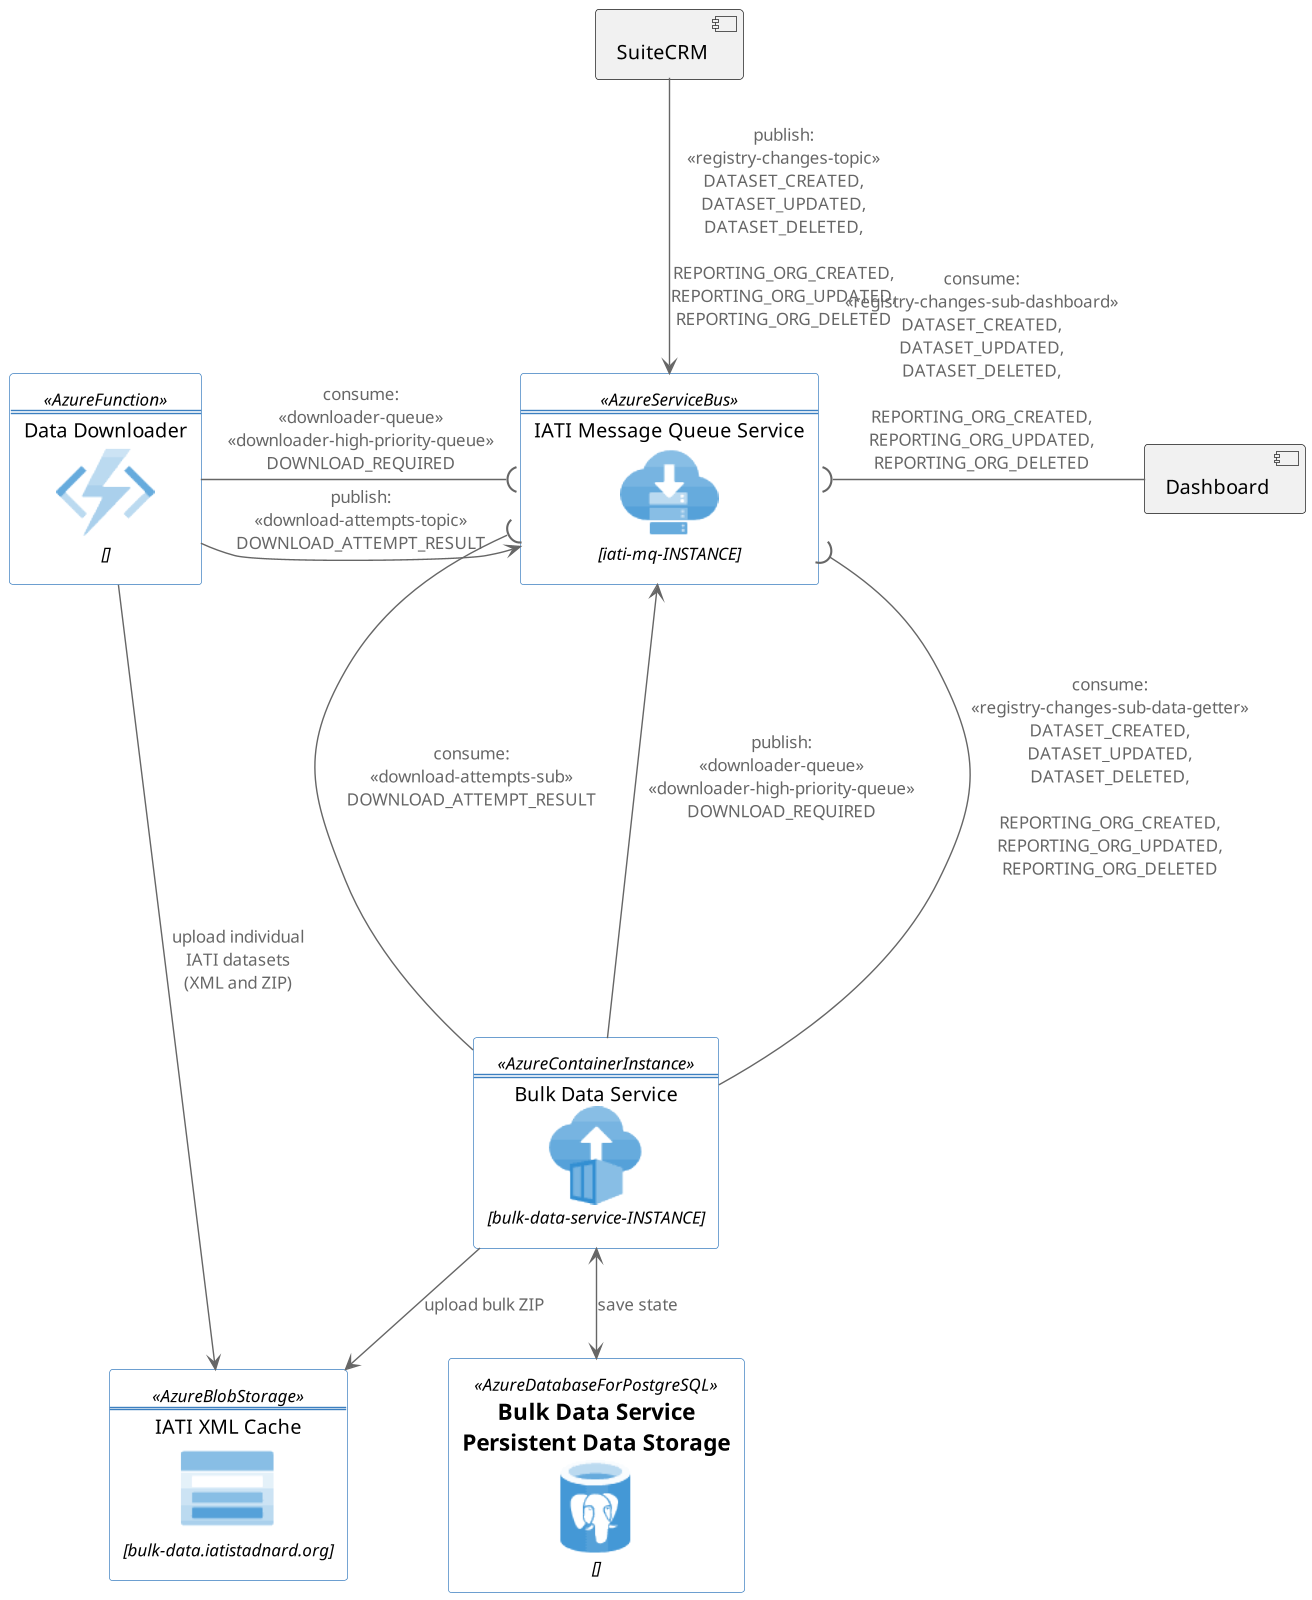
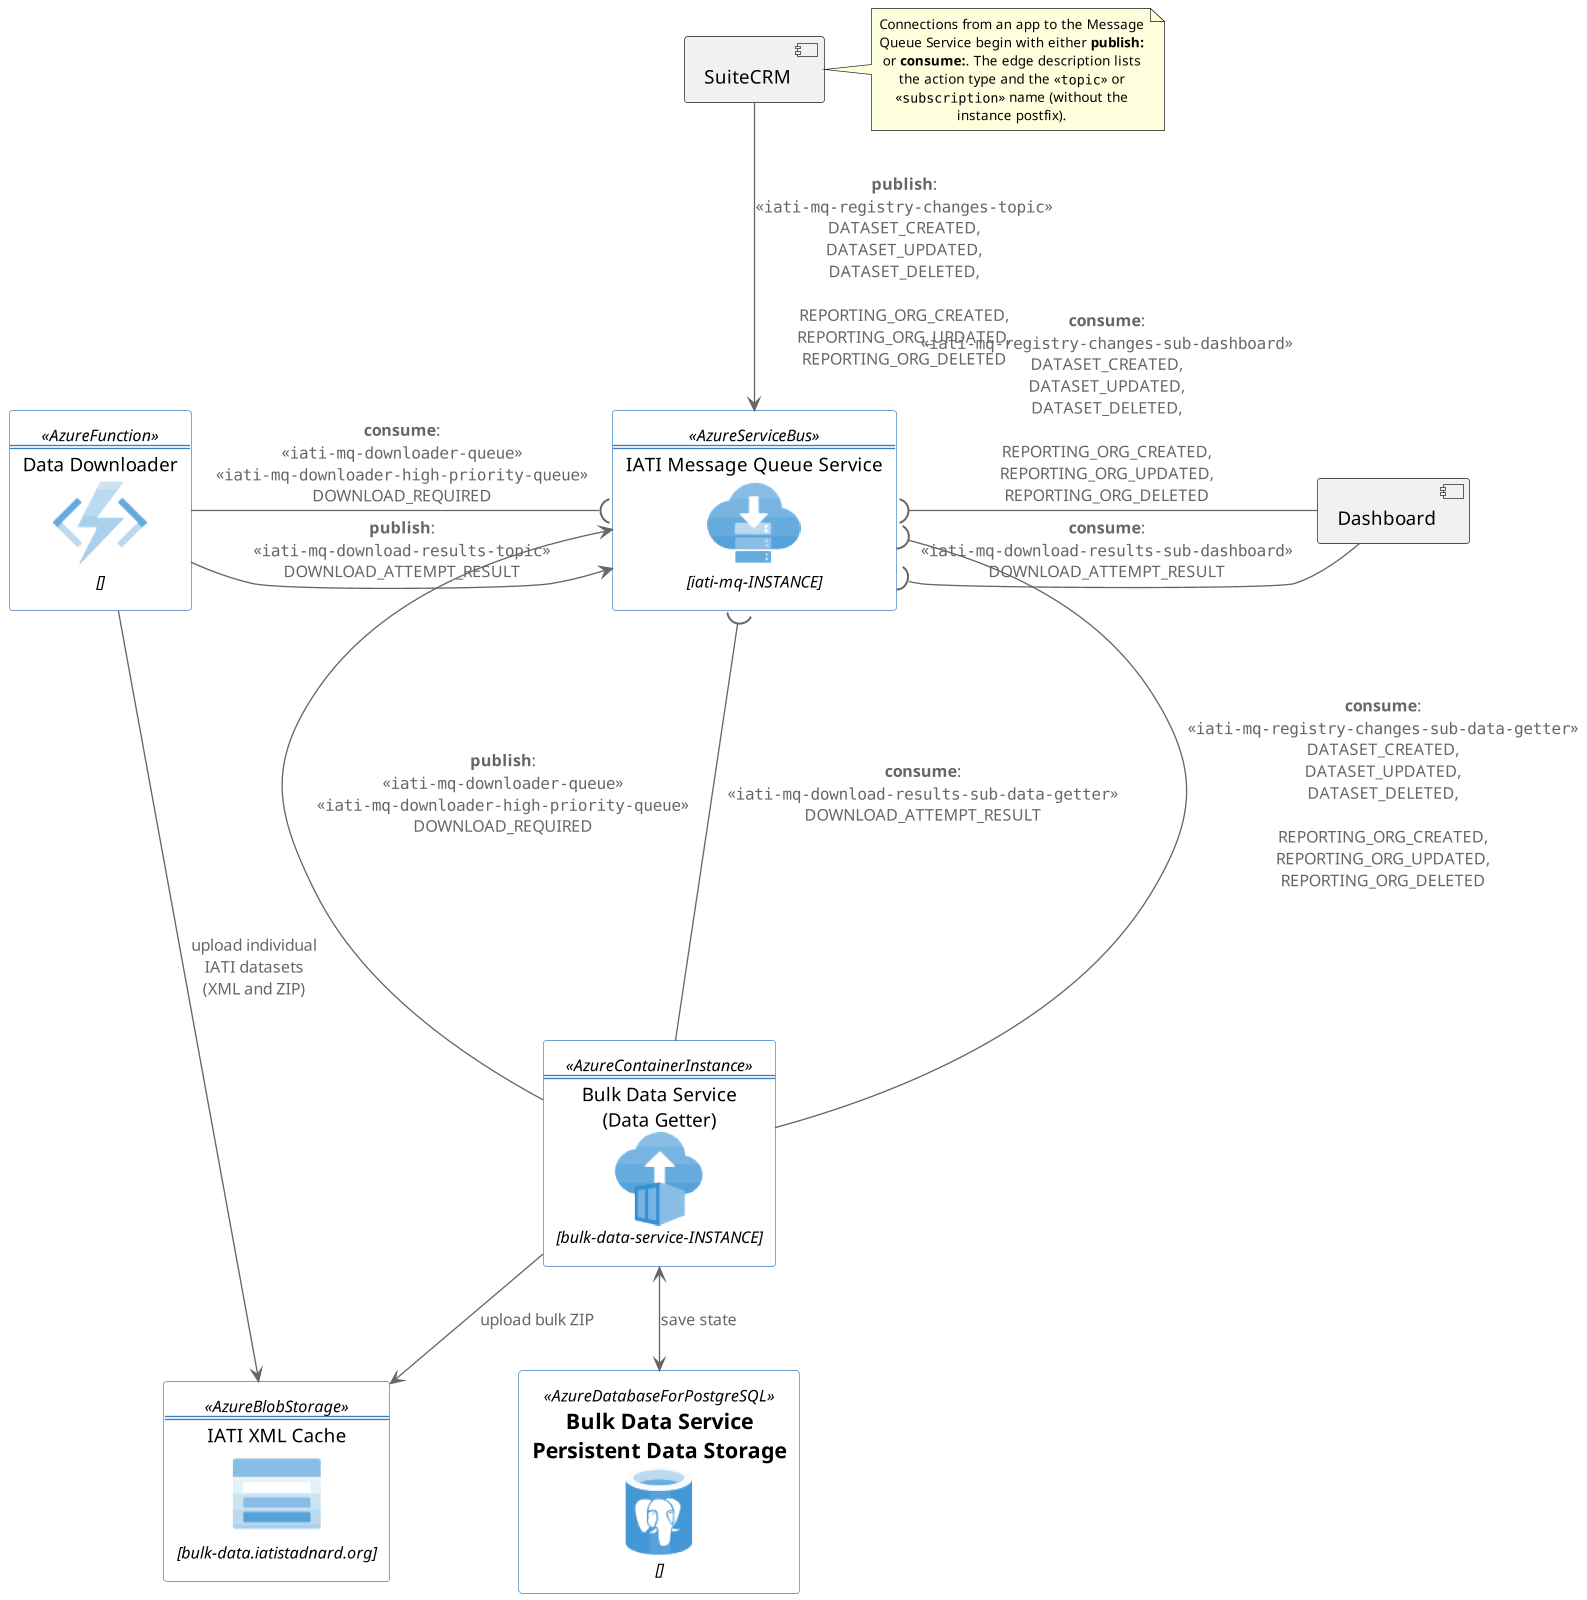
docs: updated overview diagram, expanded README

diff --git a/README.md b/README.md
@@ -6,22 +6,52 @@
 | ---------------- | --------------------------------- |
 | Description      | The specification for the internal message queue service that is used by several IATI products to communicate with each other |
 | Website          | n/a  |
-| Related          | |
-| Documentation    | Links to differnt parts of docs are below |
+| Related          | [IATI Registry SuiteCRM Extension](https://github.com/IATI/iati-registry-suitecrm-extension)|
+| Documentation    | This README and the docs it links to below |
 | Technical Issues | See https://github.com/IATI/iati-message-queue-service/issues |
 | Support          | https://iatistandard.org/en/guidance/get-support/  |
 
-## Specification
+## Overview diagram
 
-Proposed specification for IATI message queue/service bus for communication
-between CRM/Registry, Dashboard, Data Getter (spec in AsyncAPI format):
+The IATI Message Queue Service is an instance of the Azure Service Bus messaging
+platform. It is provisioned and configured using the IATI OpenTofu setup.
 
-* Specs for SuiteCRM (producer): [YAML](./specification/iati-mq-suitecrm.yaml), [Rendered HTML](https://htmlpreview.github.io/?https://github.com/IATI/iati-message-queue-service/blob/develop/docs/specification-mq-suitecrm/index.html) (external
-  preview
-  tool).
-* Specs for Dashboard and other consumers: [YAML](./specification/iati-mq-clients.yaml), [Rendered HTML](https://htmlpreview.github.io/?https://github.com/IATI/iati-message-queue-service/blob/develop/docs/specification-mq-clients/index.html) (external
-  preview
-  tool).
+The component overview diagram below shows which internal IATI components
+communicate with each other using the IATI Message Queue Service, as well as the
+message types they send or receive:
+
+![IATI internal component over diagram](docs/iati-message-queue-service-and-apps-overview.png)
+
+This diagram is generated from the following PlantUML file
+[iati-message-queue-service-and-apps-overview](docs/iati-message-queue-service-and-apps-overview.puml).
+
+
+## Specifications
+
+Proposed/draft specifications for the various application interfaces to the IATI
+message queue/service bus that facilitates internal communication between IATI
+apps, specifically the CRM/Registry, Dashboard, Bulk Data Service, and Data
+Downloader. For each service interface there is an
+[AsyncAPI](https://www.asyncapi.com/en) specification written in YAML.
+
+
+* Registry Changes Producer (SuiteCRM): [YAML](./specification/iati-mq-suitecrm.yaml),
+  [Rendered
+  HTML](https://htmlpreview.github.io/?https://github.com/IATI/iati-message-queue-service/blob/develop/docs/specification-mq-suitecrm/index.html)
+  (external preview tool).
+
+* Registry Changes Consumer (Dashboard and Bulk Data Service/Data Getter):
+  [YAML](./specification/iati-mq-clients.yaml), [Rendered
+  HTML](https://htmlpreview.github.io/?https://github.com/IATI/iati-message-queue-service/blob/develop/docs/specification-mq-clients/index.html)
+  (external preview tool).
+
+* Download Request Producer (Bulk Data Service/Data Getter)
+
+* Download Request Producer (Data Downloader)
+
+* Download Attempt Result Producer (Data Downloader)
+
+* Download Attempt Result Consumer (Bulk Data Service/Data Getter, Dashboard)
 
 
 ## Sample Python apps
